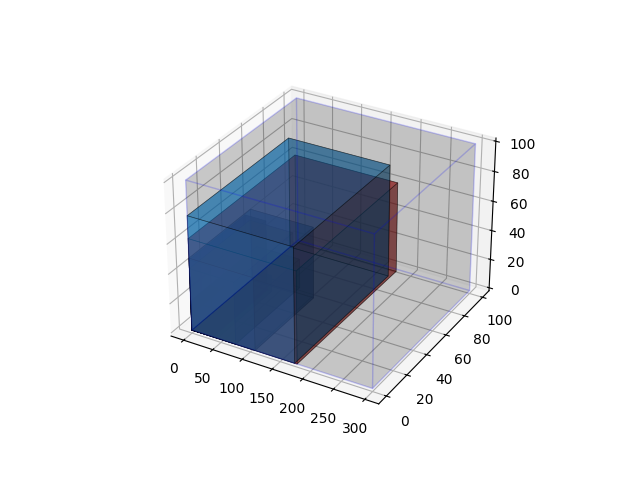
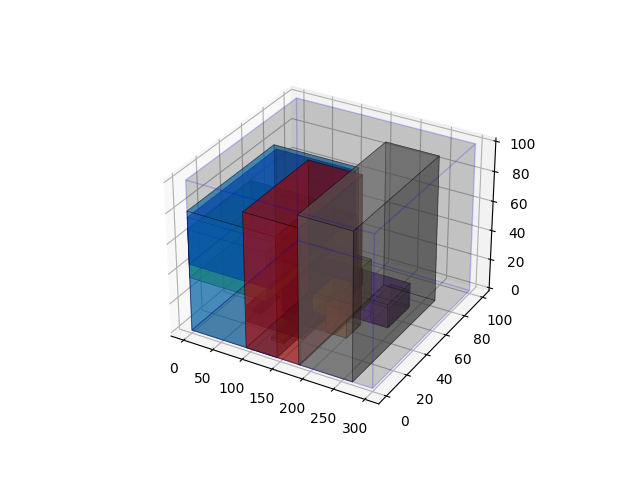
fixed create population

Changed region(s): [[0.2812, 0.2812, 0.6875, 0.8125]]

diff --git a/ag_original.py b/ag_original.py
@@ -140,7 +140,6 @@ def algoritmo_gen(poblacionSize, poblacionMaxima, probCruza, probMuta, estanteri
         return hijoLimpio
 
 
-
     def createIndividuo(csv):
         individuo = []
         paquetesSinGuardar = []
@@ -148,24 +147,53 @@ def algoritmo_gen(poblacionSize, poblacionMaxima, probCruza, probMuta, estanteri
         for _ in range(estanterias):
             estanteria = []
             for _ in range(repisas):
-                repisa = Repisa(0, 0, 0)  # Crear una instancia de Repisa
-                espacioRepisa = espacios // repisas  
+                c = 0
+                repisa = Repisa(0, 0, 0)
+                espacioRepisa = espacios
                 paquetes_repisa = []
-                for paquete in csv:
-                    if paquete.id not in paquetesColocados and espacioRepisa >= paquete.volumen:
+                while espacioRepisa >= 0:
+                    indice = random.randint(0, len(csv) - 1)
+                    paquete = csv[indice]
+                    volumenPaquete = paquete.volumen
+                    if (
+                        paquete.id not in paquetesColocados
+                        and espacioRepisa >= volumenPaquete
+                    ):
                         paquetes_repisa.append(paquete)
                         paquetesColocados.add(paquete.id)
                         espacioRepisa -= paquete.volumen
+                    elif paquete.id in paquetesColocados and c != len(csv):
+                        c += 1
+                        continue
+                    else:
+                        for paquete in csv:
+                            if (
+                                paquete.id not in paquetesColocados
+                                and espacioRepisa >= paquete.volumen
+                            ):
+                                paquetes_repisa.append(paquete)
+                                espacioRepisa -= paquete.volumen
+                                paquetesColocados.add(paquete.id)
+                        break
+
                 repisa.paquetes = paquetes_repisa
                 estanteria.append(repisa)
             individuo.append(estanteria)
+        paquetesGuardados = set(
+            paquete.id
+            for estanteria in individuo
+            for repisa in estanteria
+            for paquete in repisa.paquetes
+        )
         for estanteria in individuo:
             for repisa in estanteria:
                 distribuir_paquetes(repisa_size_x, repisa_size_y, repisa_size_z, repisa.paquetes)
+        for paquete in csv:
+            if paquete.id not in paquetesGuardados:
+                paquetesSinGuardar.append(paquete)
         return individuo
 
-
-   
+                        
     def generar_posicion_aleatoria(estanteria_size_x, estanteria_size_y, estanteria_size_z, paquete_longitud, paquete_anchura, paquete_altura):
         x = random.randint(0, estanteria_size_x - paquete_longitud)
         y = random.randint(0, estanteria_size_y - paquete_anchura)
@@ -250,10 +278,6 @@ def algoritmo_gen(poblacionSize, poblacionMaxima, probCruza, probMuta, estanteri
         plt.savefig('grafica.png')
         
 
-
-    
-
-
     for _ in range(iteraciones):
         csv = ReadData(ruta_archivo).readCsv()
         poblacion = [createIndividuo(csv) for _ in range(poblacionSize)]
@@ -261,7 +285,6 @@ def algoritmo_gen(poblacionSize, poblacionMaxima, probCruza, probMuta, estanteri
         poblacion = mutacion(poblacion, probMuta, csv)
         poblacion = seleccionarMejoresIndividuos(poblacion, csv, poblacionMaxima)
     
-
 
     poblacion.sort(key=lambda individuo: evaluarIndividuo(individuo, csv))
     visualizarPoblacion(poblacion)

diff --git a/ag.py b/ag.py
@@ -137,7 +137,6 @@ def algoritmo_gen(poblacionSize, poblacionMaxima, probCruza, probMuta, estanteri
             estanteria = []
             for _ in range(repisas):
                 c = 0
-
                 repisa = Repisa(0, 0, 0)  # Crear una nueva instancia de Repisa
                 espacioEstanteria = espacios
                 while espacioEstanteria >= 0:
@@ -164,7 +163,6 @@ def algoritmo_gen(poblacionSize, poblacionMaxima, probCruza, probMuta, estanteri
                                 espacioEstanteria -= paquete.volumen
                                 paquetesColocados.add(paquete.id)
                         break
-
                 estanteria.append(repisa)
             individuo.append(estanteria)
 
